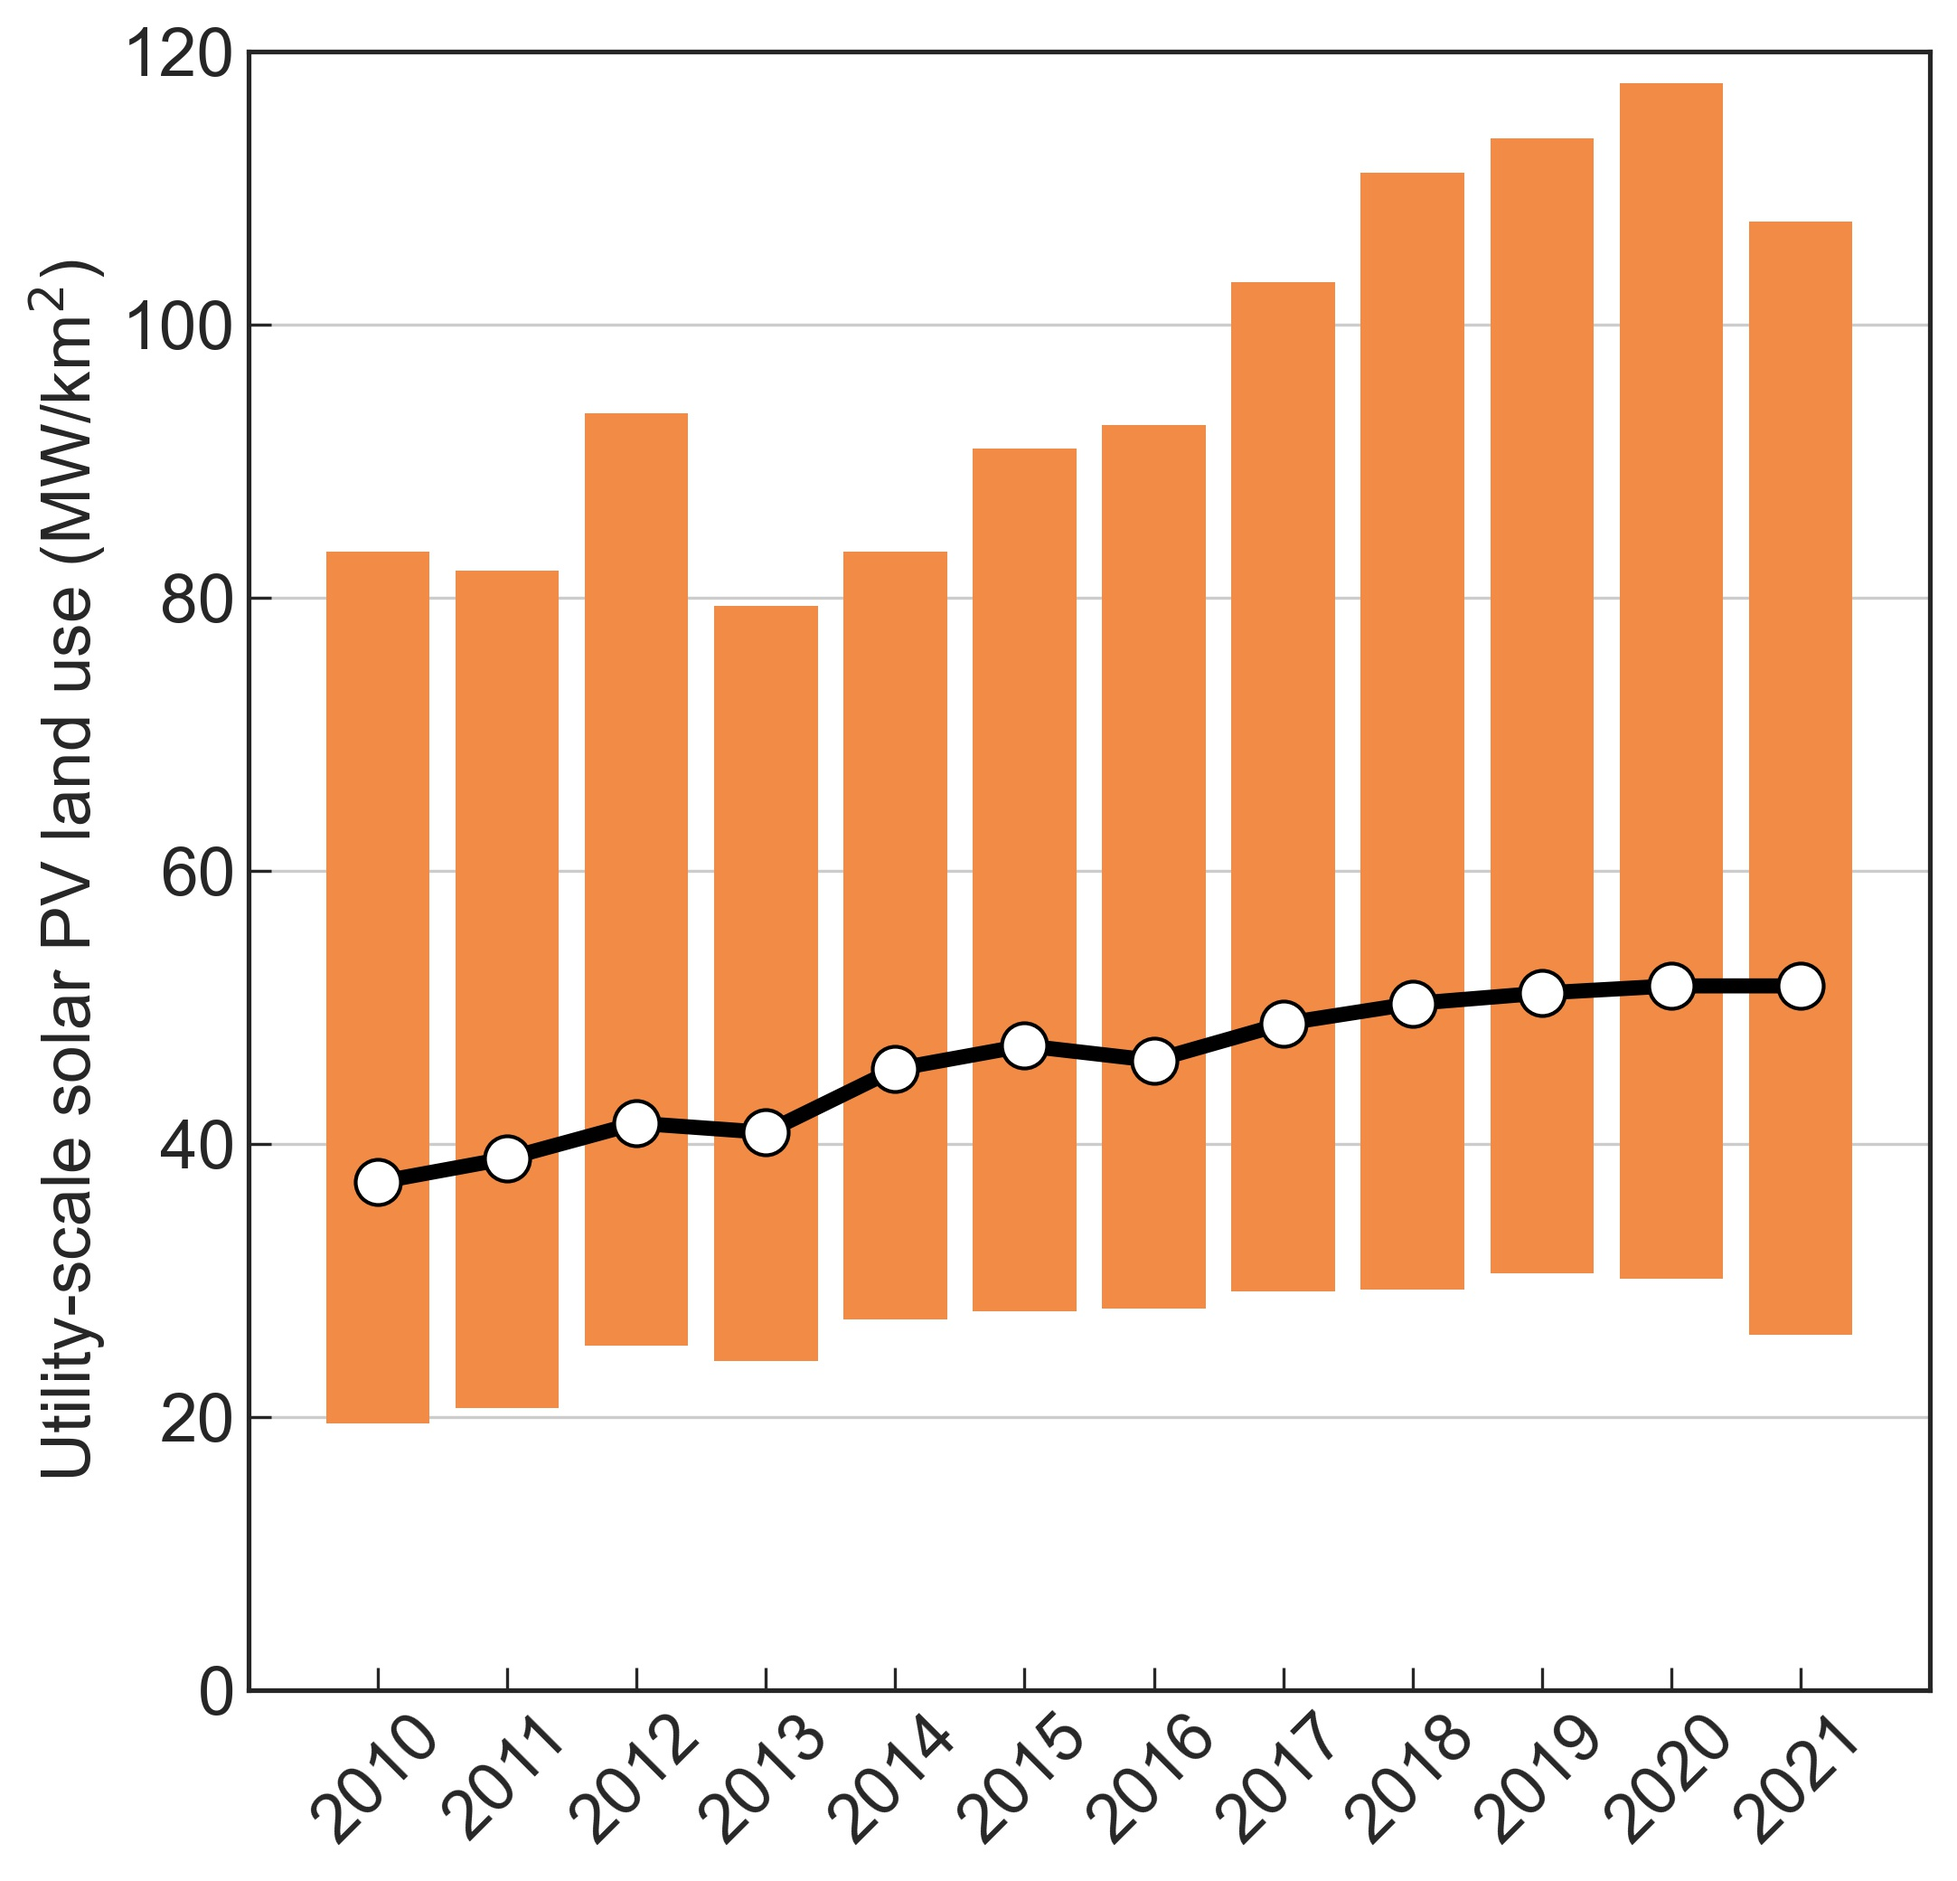
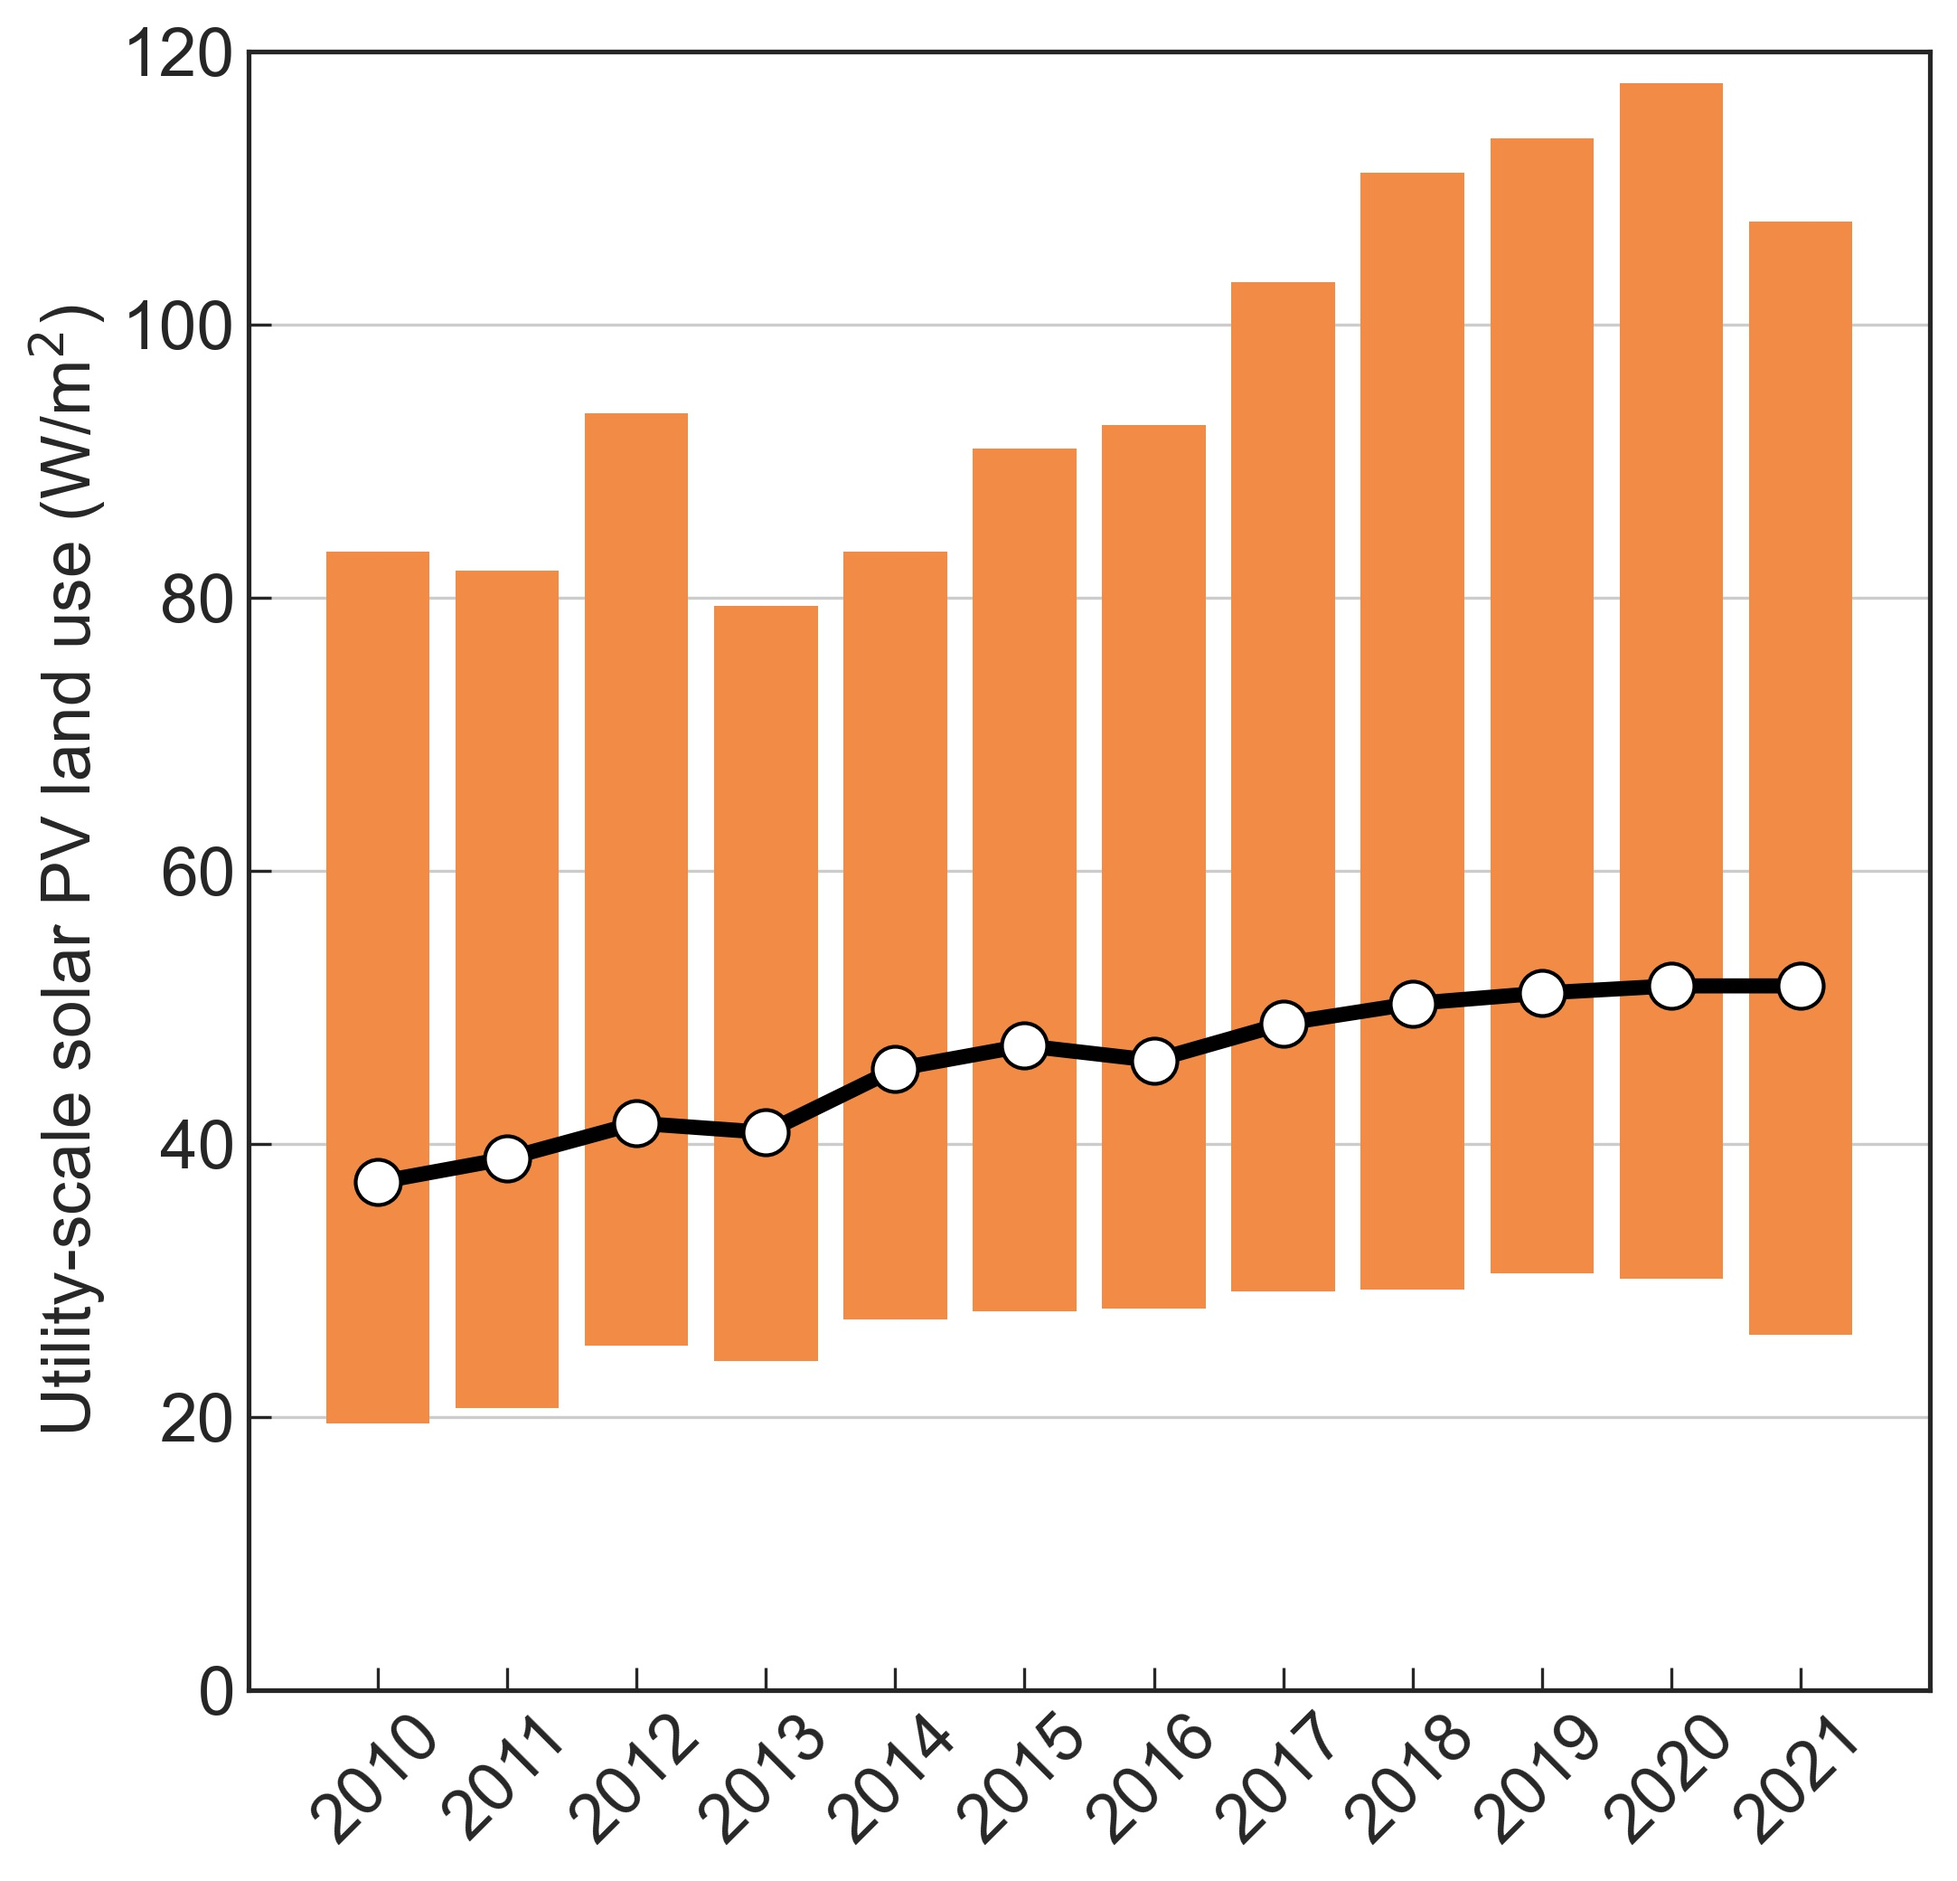
change units in PV landuse

Changed region(s): [[0.0, 0.1562, 0.0619, 0.7812]]

diff --git a/Figures/Chapter_01/landuse_PV_plants.py b/Figures/Chapter_01/landuse_PV_plants.py
@@ -35,7 +35,7 @@ min_value=[100/x for x in min_value]
 
 dif_value=[a-b for a,b in zip(min_value,max_value)]
 
-ax1.set_ylabel('Utility-scale solar PV land use (MW/km$^2$)')
+ax1.set_ylabel('Utility-scale solar PV land use (W/m$^2$)')
 ax1.plot(years, mean, color='black', linewidth=4,
          marker='o', markerfacecolor='white',markersize=12)
 
